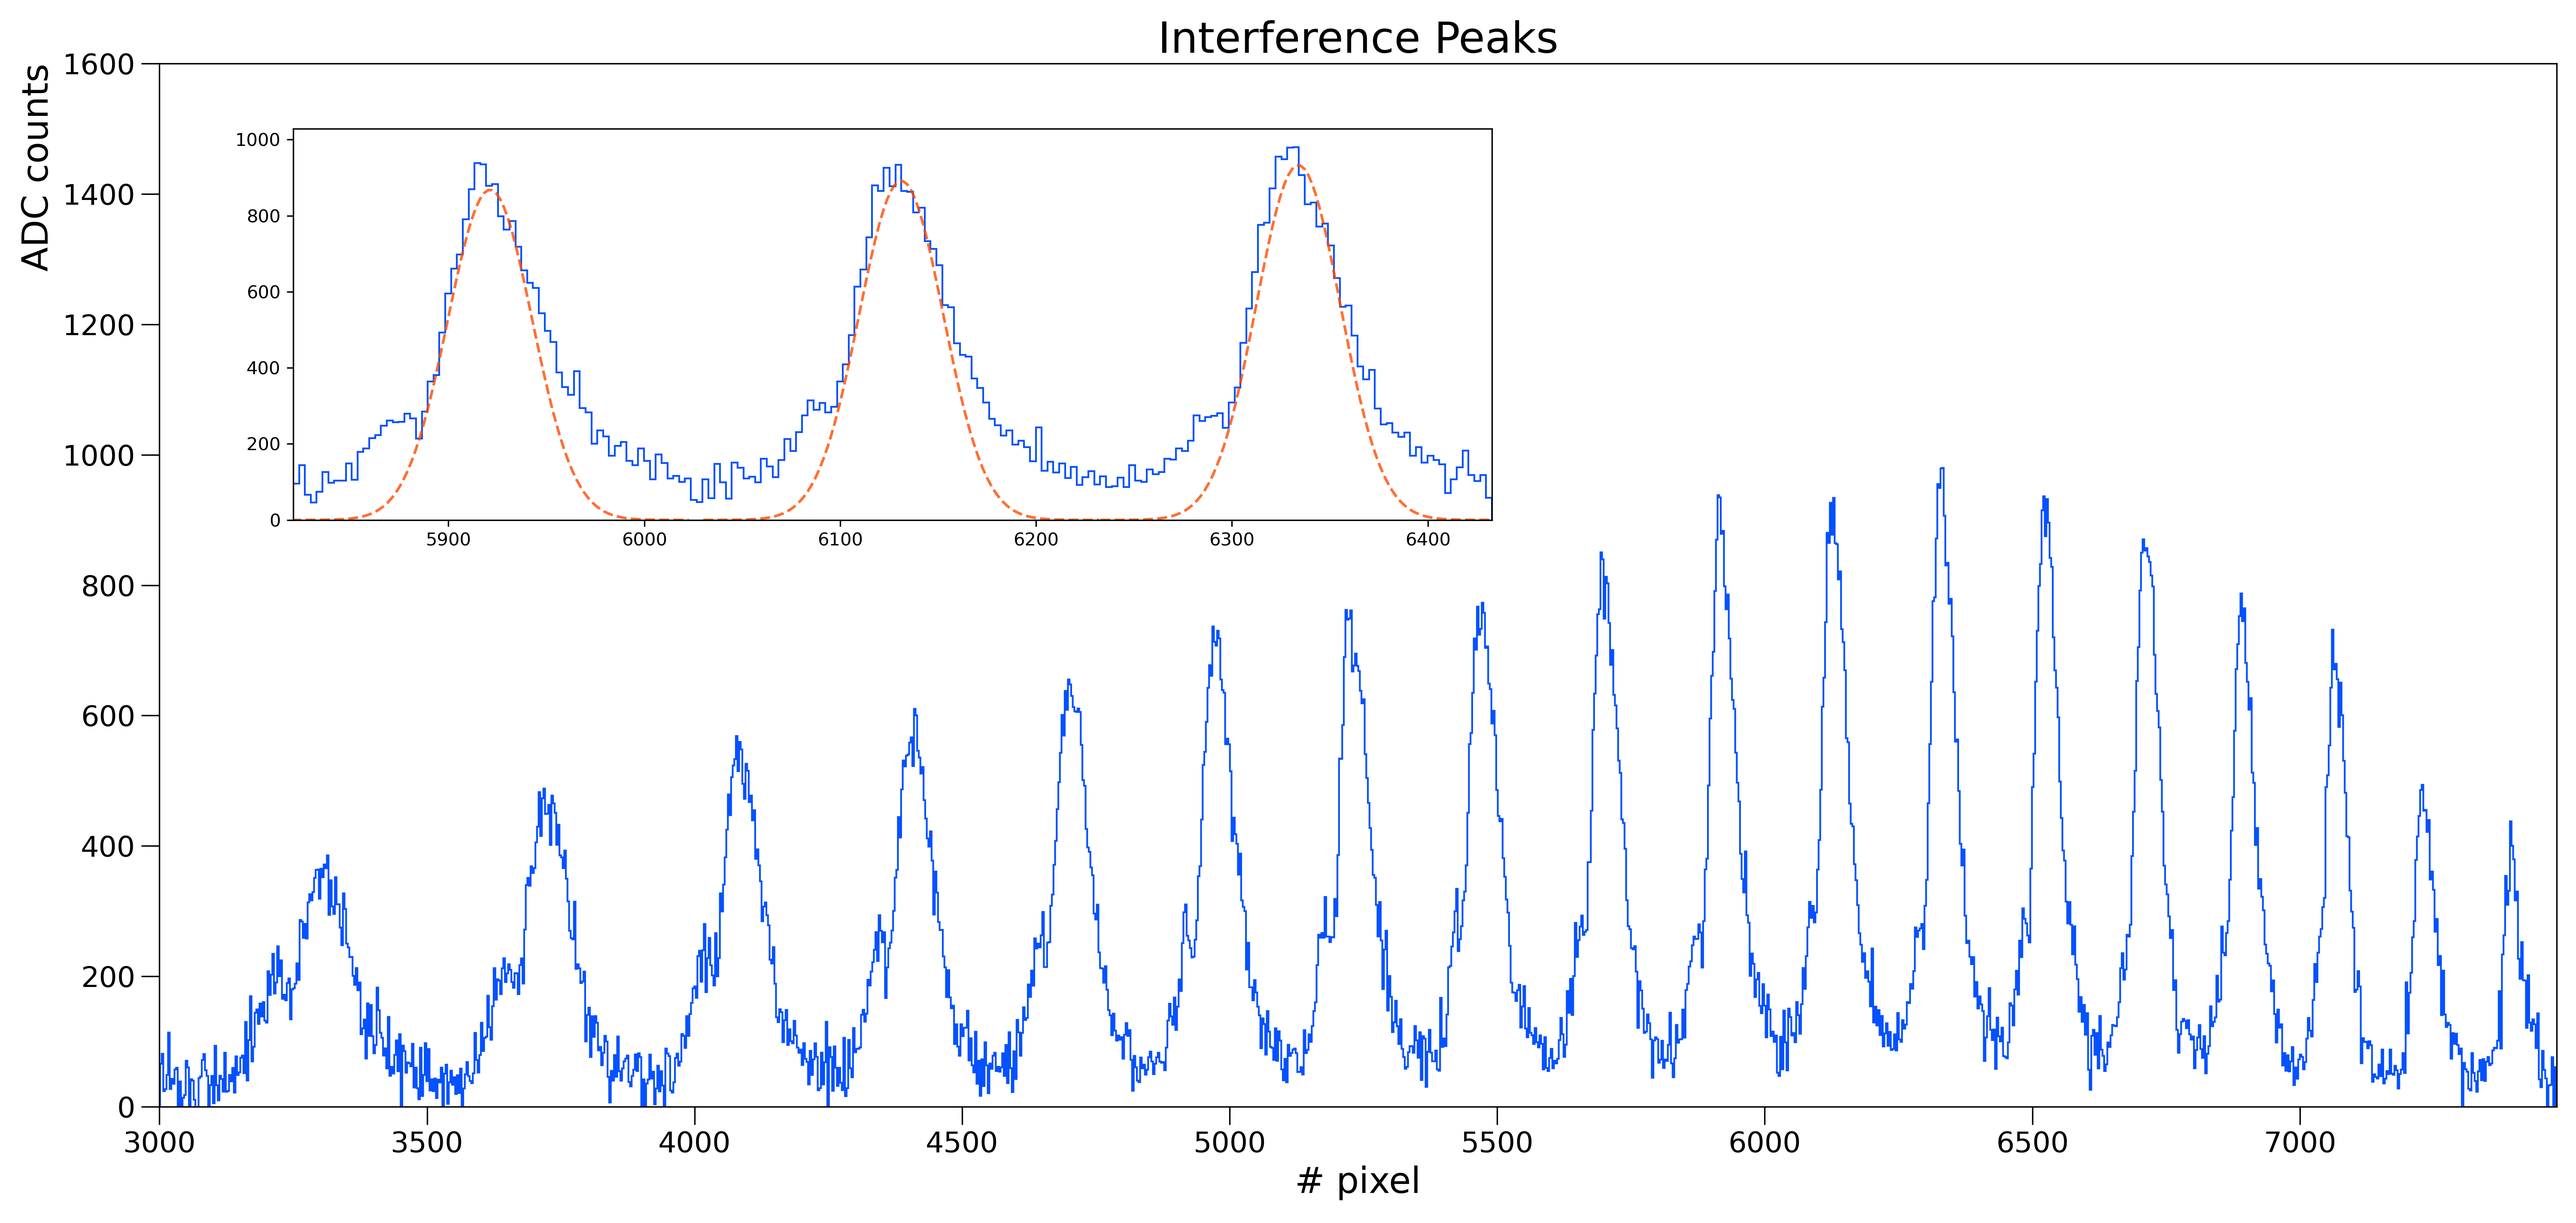
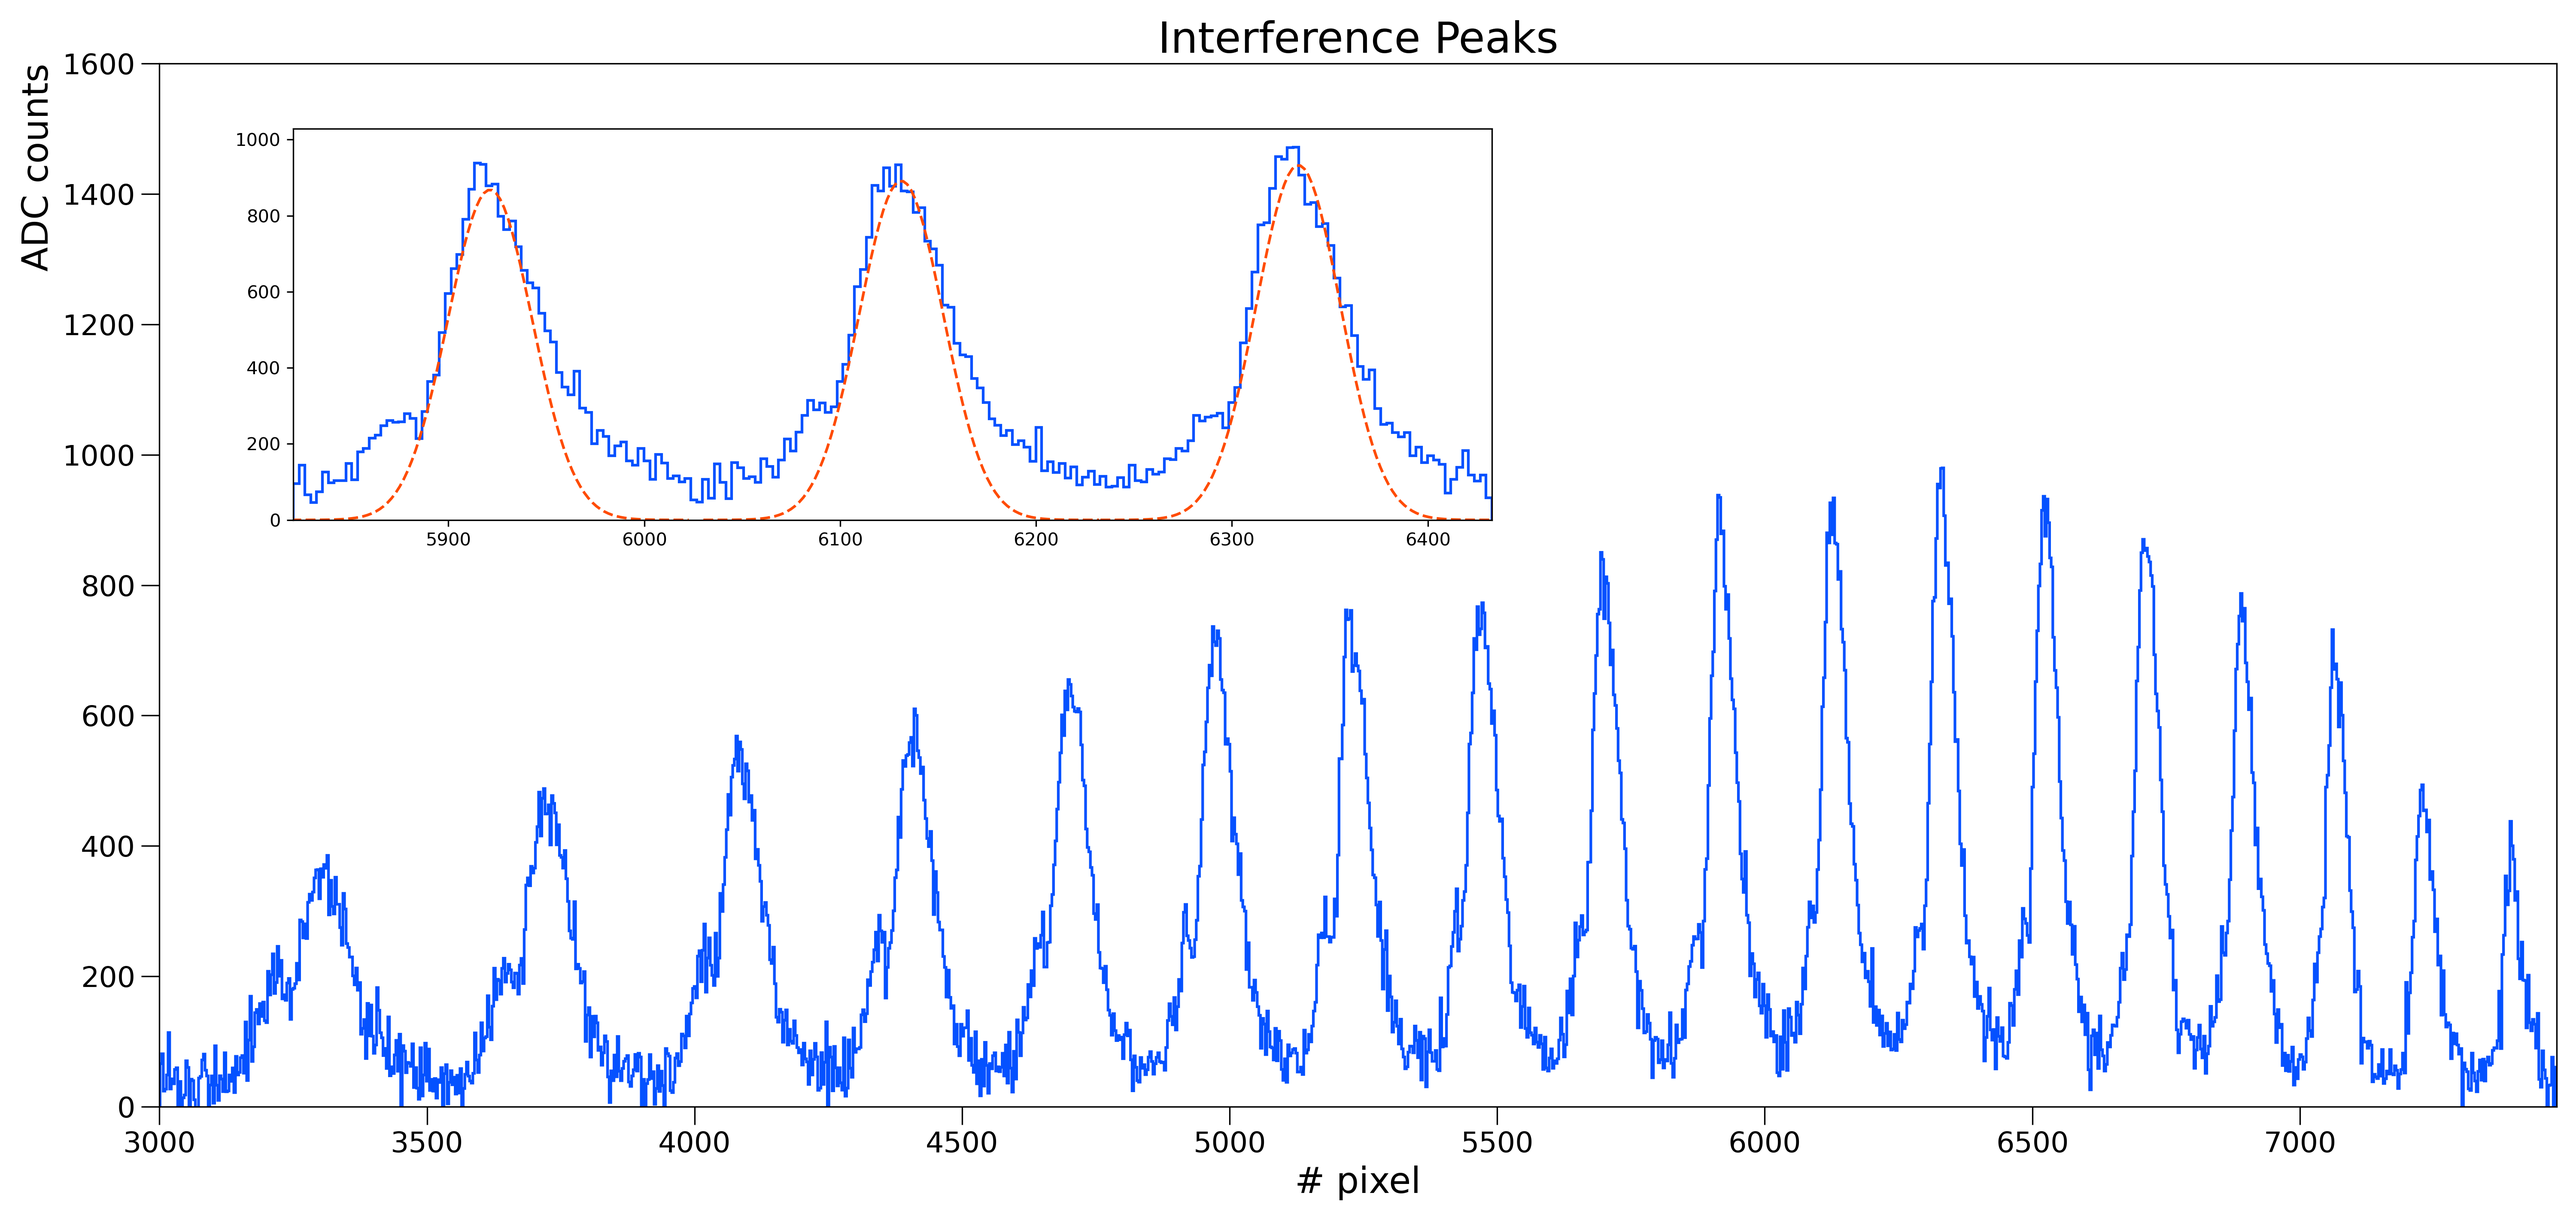
Updated plots

diff --git a/EFFETTO ZEEMAN/Code/resPower.py b/EFFETTO ZEEMAN/Code/resPower.py
@@ -66,7 +66,7 @@ def findPeaks(newData):
 
 
     # plot data
-    ax.hist(newData['X'], bins = int(len(newData['X'])), weights = newData['Y'], histtype = 'step', color = '#0451FF')
+    ax.hist(newData['X'], bins = int(len(newData['X'])), weights = newData['Y'], histtype = 'step', color = '#0451FF', linewidth = 1.5)
 
 
     xHalfLeft = []
@@ -142,11 +142,11 @@ def findPeaks(newData):
         slices.append(s)
 
     
-    axin1.plot(np.linspace(xPlotLeft[9], xPlotRight[9], 100), Gauss(np.linspace(xPlotLeft[9], xPlotRight[9], 100),*parFit[9]), color='#FF4B00', alpha = 0.8, linestyle = 'dashed')
-    axin1.plot(np.linspace(xPlotLeft[10], xPlotRight[10], 100), Gauss(np.linspace(xPlotLeft[10], xPlotRight[10], 100),*parFit[10]), color='#FF4B00', alpha = 0.8, linestyle = 'dashed')
-    axin1.plot(np.linspace(xPlotLeft[11], xPlotRight[11], 100), Gauss(np.linspace(xPlotLeft[11], xPlotRight[11], 100),*parFit[11]), color='#FF4B00', alpha = 0.8, linestyle = 'dashed')
+    axin1.plot(np.linspace(xPlotLeft[9], xPlotRight[9], 100), Gauss(np.linspace(xPlotLeft[9], xPlotRight[9], 100),*parFit[9]), color='#FF4B00', alpha = 1, linestyle = 'dashed', linewidth = 1.5)
+    axin1.plot(np.linspace(xPlotLeft[10], xPlotRight[10], 100), Gauss(np.linspace(xPlotLeft[10], xPlotRight[10], 100),*parFit[10]), color='#FF4B00', alpha = 1, linestyle = 'dashed', linewidth = 1.5)
+    axin1.plot(np.linspace(xPlotLeft[11], xPlotRight[11], 100), Gauss(np.linspace(xPlotLeft[11], xPlotRight[11], 100),*parFit[11]), color='#FF4B00', alpha = 1, linestyle = 'dashed', linewidth = 1.5)
     # axin1.hlines(Gauss(xHalfLeft[10],*parFit[10]), xHalfLeft[10], xHalfRight[10], color = 'red', linestyle = 'solid')
-    axin1.hist(slices[3]['X'], bins = int(len(slices[3]['Y'])), weights = slices[3]['Y'], histtype = 'step', color = '#0451FF')
+    axin1.hist(slices[3]['X'], bins = int(len(slices[3]['Y'])), weights = slices[3]['Y'], histtype = 'step', color = '#0451FF', linewidth = 1.5)
     axin1.set_xlim(slices[3]['X'].iloc[0], slices[3]['X'].iloc[-1])
     axin1.set_ylim(0, np.amax(slices[3]['Y']) * (1 + 5/100))
 
@@ -193,7 +193,7 @@ def plot3peaks(newData, xPlotLeft, xPlotRight, parFit):
                 # plot peaks
                 ax[j][i].set_xlim(slices[i+h]['X'].iloc[0], slices[i+h]['X'].iloc[-1])
                 ax[j][i].set_ylim(0, np.amax(slices[i+h]['Y']) * (1 + 5/100))
-                ax[j][i].hist(slices[i+h]['X'], bins = int(len(slices[i+h]['Y'])), weights = slices[i+h]['Y'], histtype = 'step', color = '#0451FF')
+                ax[j][i].hist(slices[i+h]['X'], bins = int(len(slices[i+h]['Y'])), weights = slices[i+h]['Y'], histtype = 'step', color = '#0451FF', linewidth = 1.5)
 
                 # plot fits
                 for k in range(3):
@@ -279,7 +279,7 @@ def spacingTrend(peakPositions, peakSpacing, peakFWHM):
     ax2.tick_params(axis = 'both', which = 'major', labelsize = 16, direction = 'out', length = 5)
 
     fig.tight_layout()
-    # fig.savefig('../Plots/test2.png', dpi = 300, facecolor = 'white')
+    fig.savefig('../Plots/Boff_spacing_trend.png', dpi = 300, facecolor = 'white')
 
     return
 
@@ -371,7 +371,7 @@ def main(fname):
     print('\n')
 
     fig.tight_layout()
-    # fig.savefig('../Plots/test3.png', dpi = 300, facecolor = 'white')
+    fig.savefig('../Plots/Boff_Y_proj.png', dpi = 300, facecolor = 'white')
     plt.show()
 
     return

diff --git a/EFFETTO ZEEMAN/Code/zeemanPlot.py b/EFFETTO ZEEMAN/Code/zeemanPlot.py
@@ -127,7 +127,7 @@ def main(argv):
     ax1.tick_params(axis = 'both', which = 'major', labelsize = 16, direction = 'out', length = 5)
 
     # 1D histogram: x projection
-    ax2.hist(xhist1D, bins = len(proj), weights=proj, histtype='step', color = '#0451FF')
+    ax2.hist(xhist1D, bins = len(proj), weights=proj, histtype='step', color = '#0451FF', linewidth = 1.5)
     ax2.set_title('1D Spectrum - X Projection', fontsize = 24)
     ax2.set_xlabel('# misura', fontsize = 18)
     ax2.set_ylabel('ADC counts - <background>', fontsize = 18)
